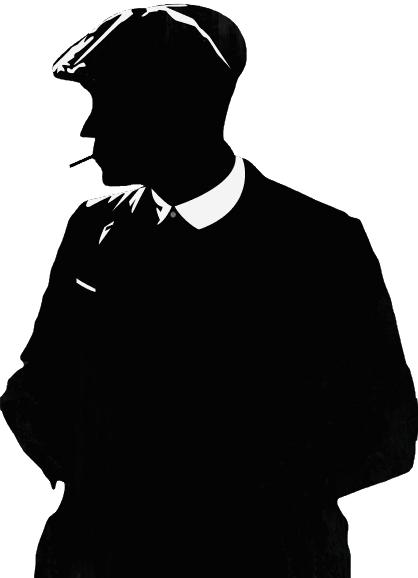
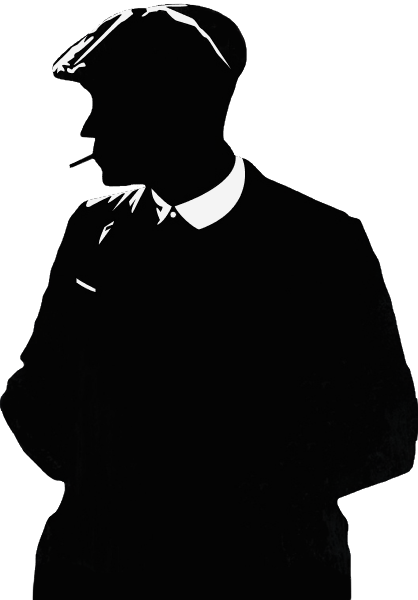
minus navabr's 76 pixels

diff --git a/src/js/main.js b/src/js/main.js
@@ -1,26 +1,25 @@
+let peaky = document.getElementById('peaky__blinders')
+let man = document.getElementById('man')
+
 document.addEventListener('DOMContentLoaded', function () {
 
     // Menu navigate animation
     document.querySelectorAll('.nav-item>.nav-link').forEach(link => {
         link.addEventListener('click', function (event) {
-            event.preventDefault();
-            var id = link.getAttribute('href');
-            document.querySelector(id).scrollIntoView({ block: 'start', behavior: 'smooth' });
-        }, false);
-    });
-});
-
-let peaky = document.getElementById('peaky__blinders')
-let man = document.getElementById('man')
-
+            event.preventDefault()
+            var id = link.getAttribute('href')
+            document.querySelector(id).scrollIntoView({ block: 'start', behavior: 'smooth' })
+        }, false)
+    })
+ })
 
 window.addEventListener('scroll', () => {
     parallax(pageYOffset)
 })
 
 function parallax(top) {
-    peaky.style.top = 166 + top/2 + 'px'
-    man.style.top = 166 - top/5 + 'px' 
+        peaky.style.top = 100 + top/2 + 'px'
+        man.style.top = 90 - top/5 + 'px'
 }
 
 

diff --git a/src/partials/_header.html b/src/partials/_header.html
@@ -1,7 +1,7 @@
 <header>
 	<div class="container">
 		<div class="row">
-			<nav class="navbar navbar-expand-lg w-100">
+			<nav class="navbar navbar-expand-lg w-100 pb-0">
 				<button class="navbar-toggler" type="button" data-toggle="collapse" data-target="#navbarNav" aria-controls="navbarNav" aria-expanded="false" aria-label="Toggle navigation">
 					<span class="navbar-toggler-icon"></span>
 				</button>
@@ -17,7 +17,7 @@
 							<a class="nav-link" href="#photo">1st photoshoot</a>
 						</li>
 						<li class="nav-item">
-							<a class="navbar-brand" href="#logo"><img src="./img/logo.png" alt="logo"></a>
+							     <a class="navbar-link" href="#logo"><img src="./img/logo.png" alt="logo"></a>
 						</li>
 						<li class="nav-item">
 							<a class="nav-link" href="#promo">promo</a>
@@ -37,9 +37,9 @@
 		</div>
 	</div>
 	<div id="peaky__blinders">
-	    <img src="./img/desktop_back_m.png" alt="">
+	    <img src="./img/desktop_back_m.png" alt="PEAKY BLINDERS">
 	</div>
 	<div id="man">
-		    <img src="./img/big_man.png" alt="">
+		    <img src="./img/big_man.png" alt="shadow">
     </div>
 </header>

diff --git a/src/style/_header.scss b/src/style/_header.scss
@@ -1,10 +1,8 @@
 header {
 	width: 100%;
 	height: 883px;
-	/*background: url(../img/desktop_back.png) no-repeat center center;*/
     background-color: #852525;
     overflow: hidden;
-    background-size: 100%;
     position: relative;
 }
 
@@ -12,7 +10,6 @@ header {
 	justify-self: center;
 	text-transform: uppercase;
 	font-size: 27px;
-	//line-height: 44px;
 	color:$primary-text;
 }
 
@@ -24,24 +21,25 @@ header {
 
 #peaky__blinders {
     position: absolute;
-    top: 166px;
+    top: 100px;
     width: 100%;
     
     img {
+        position: absolute;
         width: 100%;
     }
 }
 
 #man {
     position: absolute;
-    right: 0;
     width: 100%;
     
     img {
         position: absolute;
-        right: 0;
-        top: -60px;
-        right: -100px;
-        width: 700px;
+        top: -30px;
+        right: -6.5%;
+        width: 46%;
     }
 }
+
+
